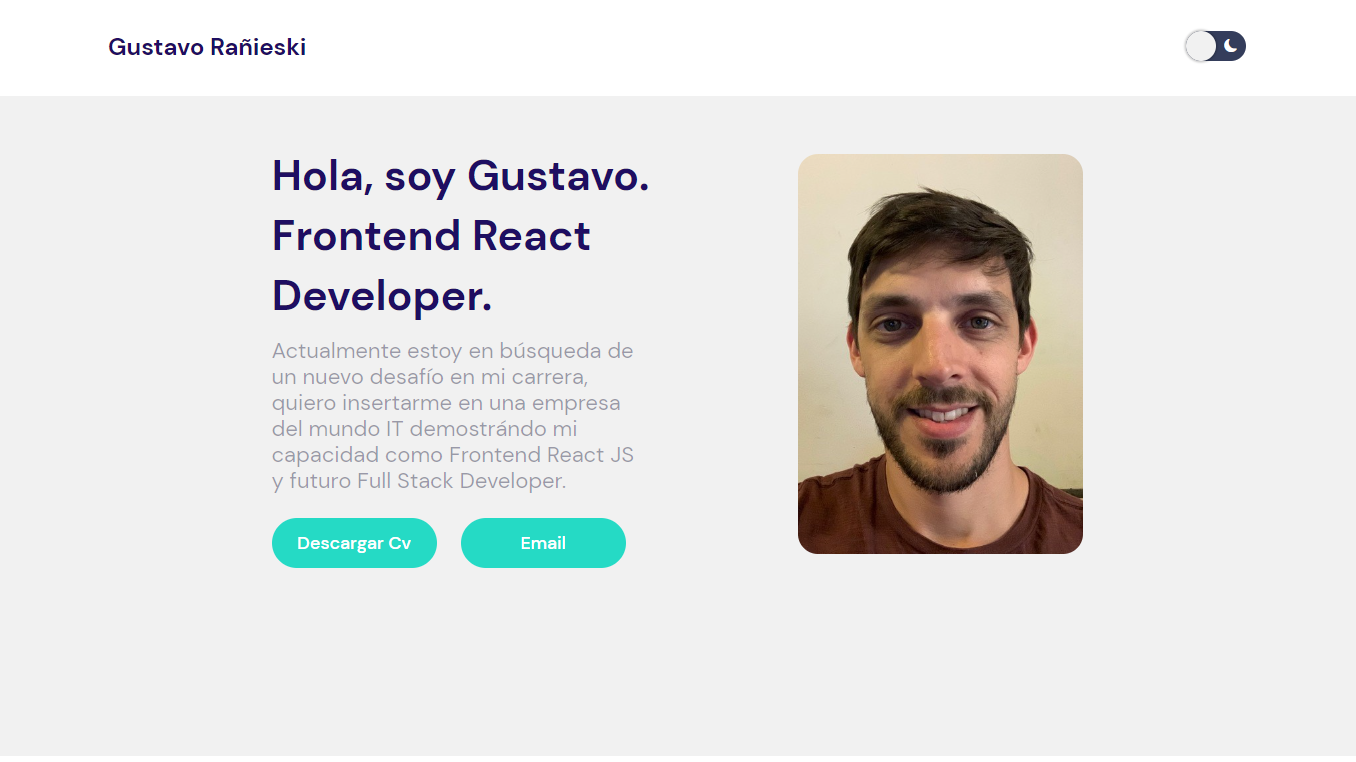
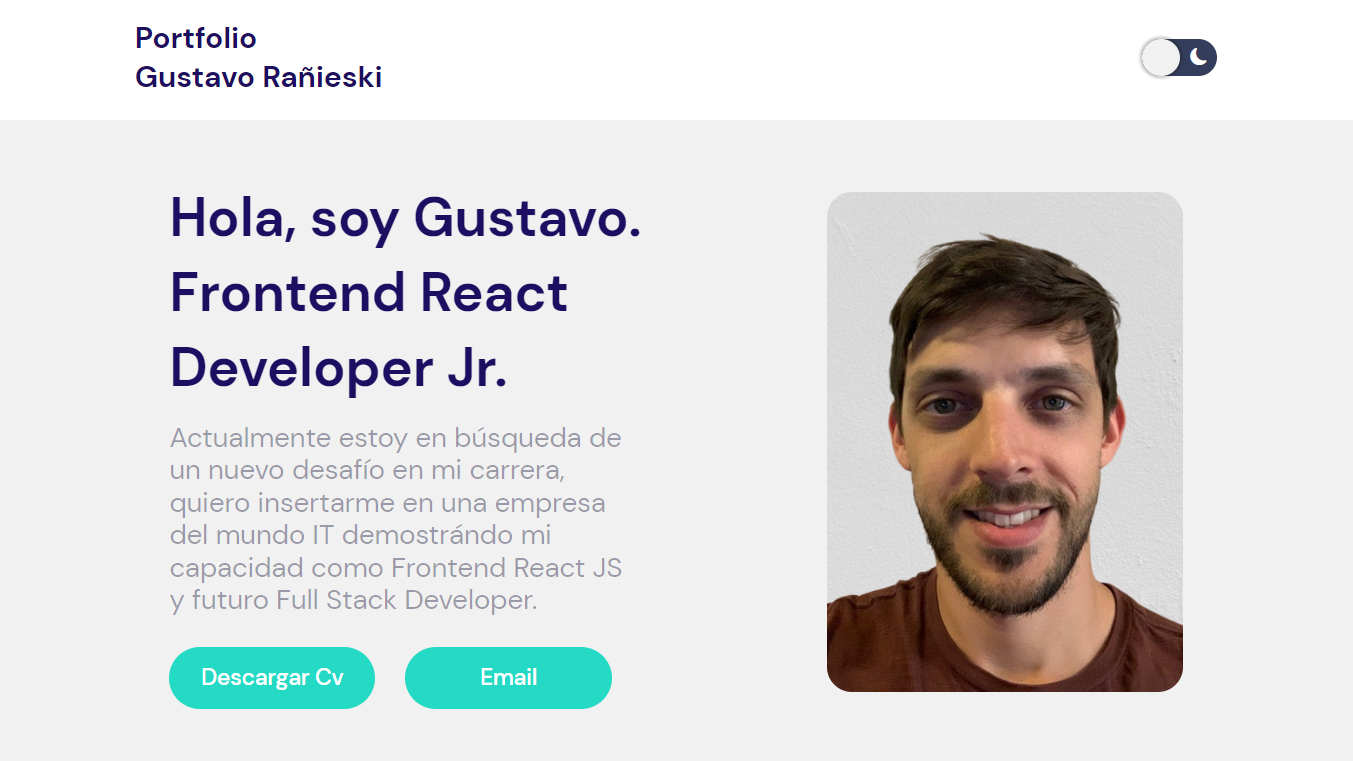
nuevos estilos1

diff --git a/index.html b/index.html
@@ -14,7 +14,7 @@
 <body>
     <header>
         <div class="header-content">
-            <p>Gustavo Rañieski</p>
+            <p>Portfolio <br>Gustavo Rañieski</p>
             <button class="switch" id="switch">
                 <span><i class="bi bi-sun-fill"></i></span>
                 <span><i class="bi bi-moon-fill"></i></span>
@@ -24,7 +24,7 @@
     <main>
         <section class="hero">
             <div class="hero-description">
-                <h1>Hola, soy Gustavo. Frontend React Developer.</h1>
+                <h1>Hola, soy Gustavo. Frontend React Developer Jr.</h1>
                 <p>Actualmente estoy en búsqueda de un nuevo desafío en mi carrera, quiero insertarme en una empresa del
                     mundo IT
                     demostrándo mi capacidad como Frontend
@@ -36,7 +36,7 @@
                 </div>
             </div>
             <div class="hero-photo">
-                <img src="./assets/FOTO CARA GUS.jpg" alt="Gustavo Rañieski Frontend Developer">
+                <img src="./assets/FOTO_CARA_GUS-pared.png" alt="Gustavo Rañieski Frontend Developer">
             </div>
         </section>
         <div>
@@ -159,7 +159,8 @@
                     </h3>
                     <span>
                         Portfolio hecho con Html, Css y Javascript. <br>Creación a través de un diseño de figma
-                        agregándole estilos propios. <br>Responsive mobile.
+                        agregándole estilos propios. <a href="https://www.figma.com/file/XYCezVsLUacSEwva4XfQQp/Reto-HolaJuniors-%231---Opci%C3%B3n-B?node-id=1%3A13&t=x1wKtEHcM1bLsMUy-0" target="_blank"> <br>(ver diseño)</a>
+                        <br>Responsive mobile.
                     </span>
                 </div>
                 <!-- <div class="card">

diff --git a/styles.css b/styles.css
@@ -277,6 +277,32 @@ h2 {
     box-shadow: 0.1rem 0.2rem 1rem 1px #5e5a5a;
 }
 
+.card img:hover {
+    opacity: 1;
+    -webkit-animation: flash 1.5s;
+    animation: flash 1.5s;
+}
+
+@-webkit-keyframes flash {
+    0% {
+        opacity: .4;
+    }
+
+    100% {
+        opacity: 1;
+    }
+}
+
+@keyframes flash {
+    0% {
+        opacity: .4;
+    }
+
+    100% {
+        opacity: 1;
+    }
+}
+
 .card h3 a {
     font-weight: 500;
     font-size: 22px;
